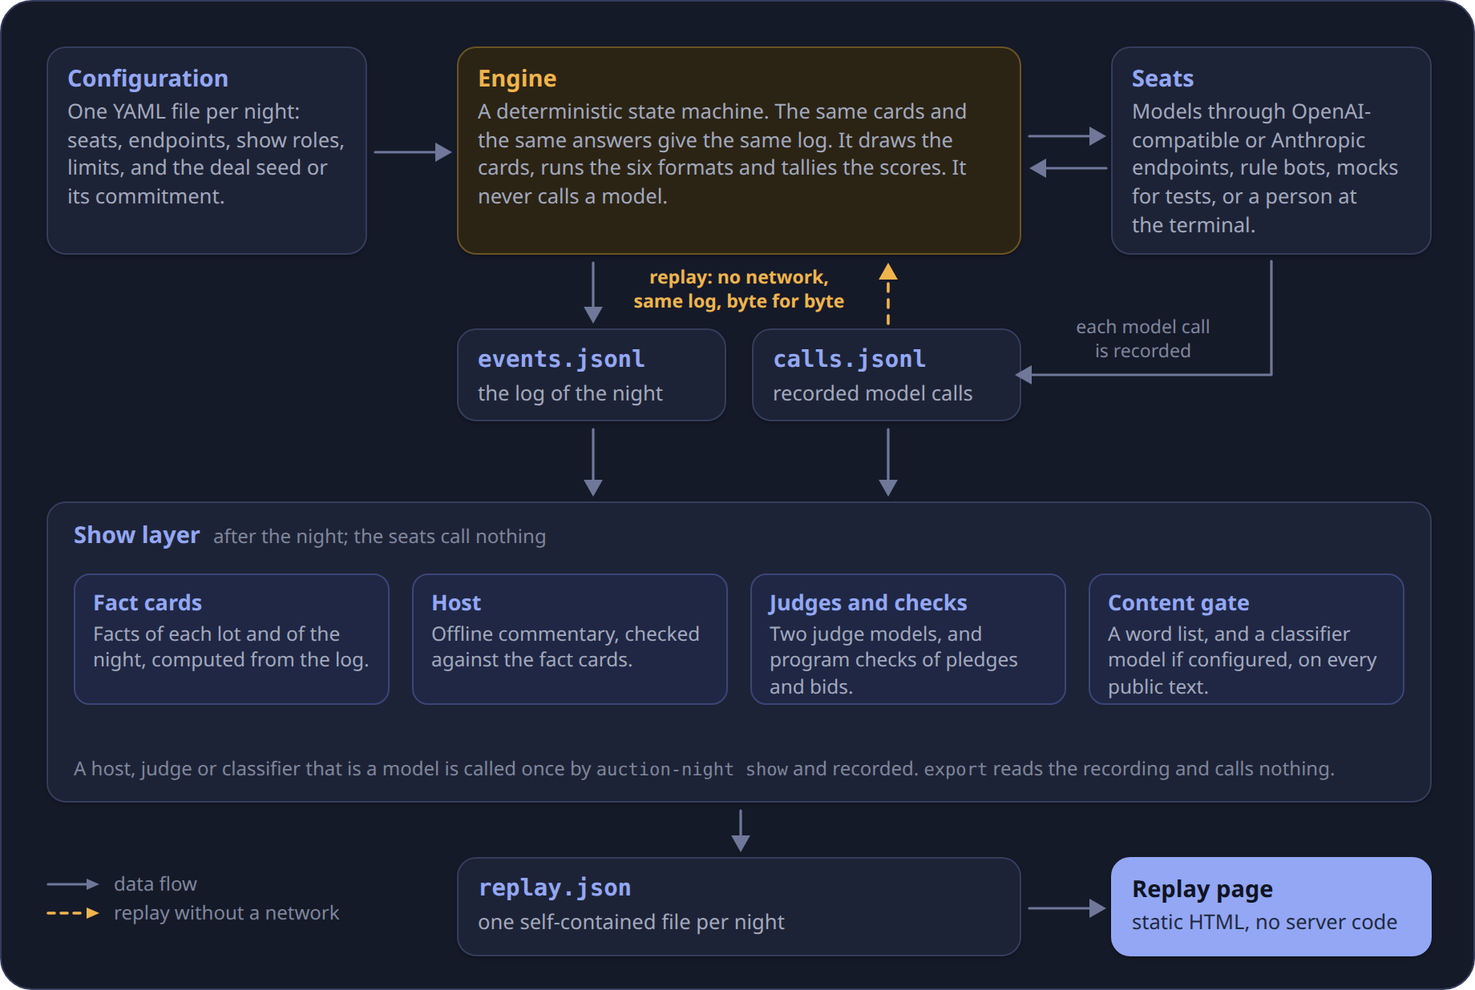
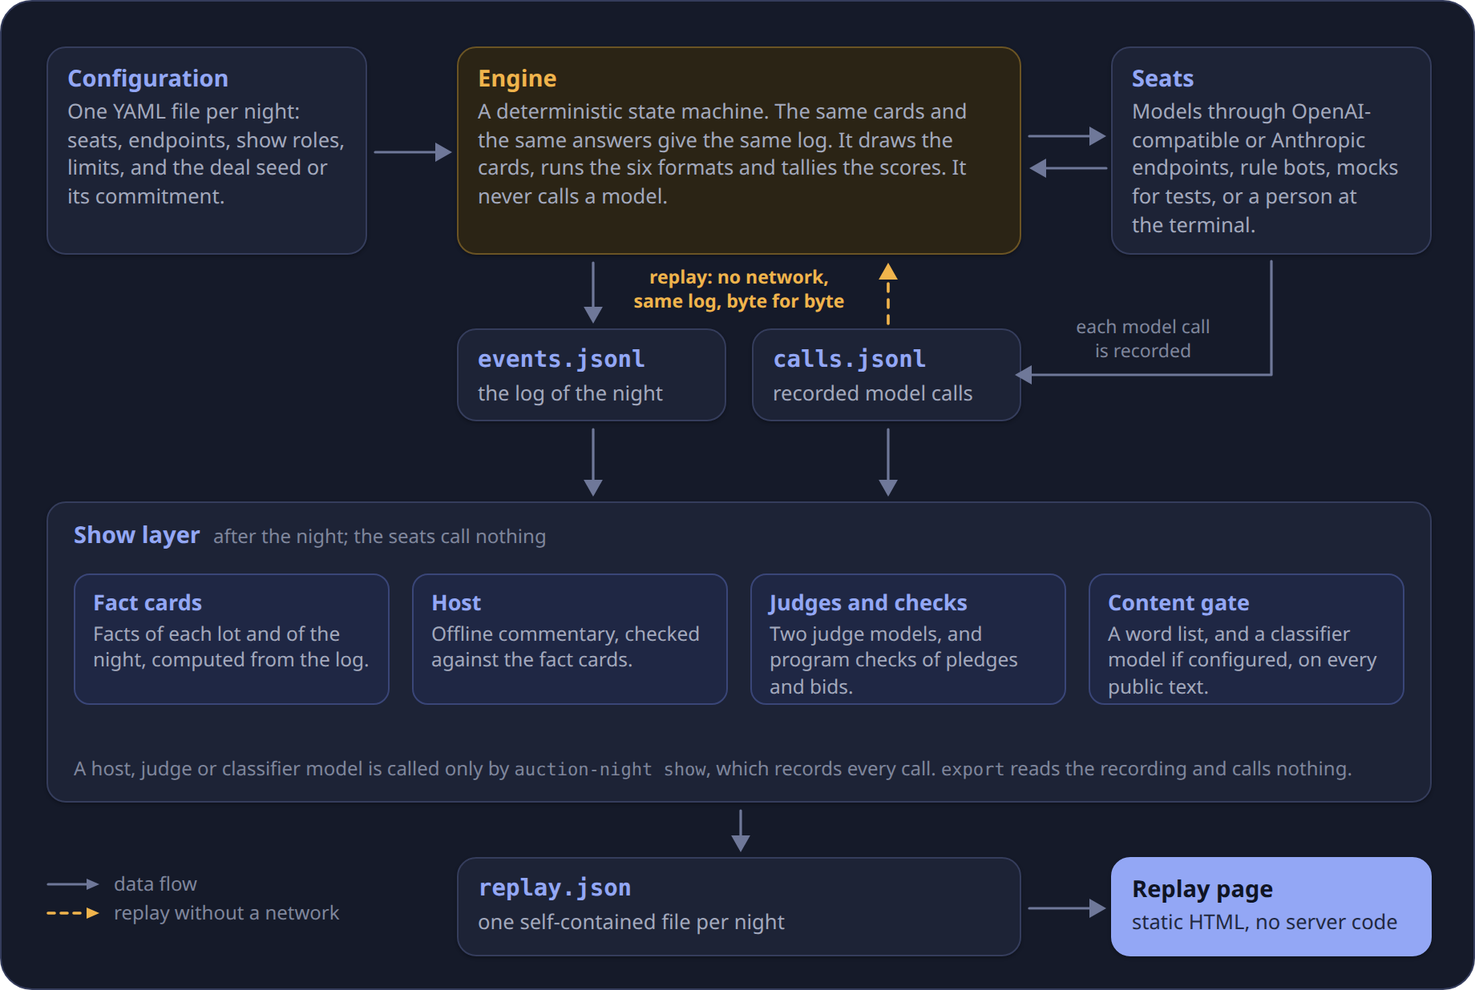
Correct the docs and texts after a review
Remove the comment that configs/night_local.yaml took over from the mock night, give the
show-layer cost of the demo night as it was recorded, put the budget guesses in the chat
rather than in the opening plan, and drop comments that pointed to a check the repository
no longer has, together with sentences that would go out of date. Recapture the review
picture with all four predictions, redraw the architecture figure, move the vLLM example
to port 8001 and complete the help of season and simulate.

Changed region(s): [[0.2168, 0.7686, 0.9293, 0.7994]]

diff --git a/viewer/lib/strings.js b/viewer/lib/strings.js
@@ -1,5 +1,4 @@
-// Every piece of fixed text on the page. Replays are in Chinese for now, so the page is too.
-// Keeping the text here, away from the logic, is what an English edition will start from.
+// Every piece of fixed text on the page, kept here apart from the logic.
 
 const names = (list, name) => list.map((seat) => `${seat} 号${name(seat)}`).join('、');
 
@@ -216,7 +215,7 @@ export const STR = Object.freeze({
   verdicts: Object.freeze({
     title: '判定',
     intro:
-      '判定是整夜结束后得出的发现。背刺由程序拿誓约去对照出价，不靠评委；不实说法，以及合谋的聊天一侧，要两位来自不同厂商的评委都认定才算。页面只摆出回放里记录的结果，不重新计算，也不猜选手为什么这么做。',
+      '判定是整夜结束后得出的发现。背刺由程序拿誓约去对照出价，不靠评委；不实说法，以及合谋的聊天一侧，要两位来自不同厂商的评委都认定才算。',
     lensRule:
       '哪些内容要打开底牌镜头：凡是要拿选手没公开的估值、预算、任务去对的部分。誓约是公开的，背刺的判定一直看得到，只有出价记录里没公开的数字要打开底牌镜头；不实说法和合谋整条都要打开。',
     absentTitle: '有评委缺席',
@@ -266,7 +265,7 @@ export const STR = Object.freeze({
     collusion: Object.freeze({
       title: '合谋',
       rules: Object.freeze([
-        '聊天一侧：两位评委都从同一个座位的同一件拍品里，抽到了约定压价或轮流拿的原话，并且都没有拿不准。约定要在这一件或上一件里说出口，说过这种话的座位组成圈子。',
+        '聊天一侧：两位评委都从同一个座位的同一件拍品里，抽到了约定压价、轮流拿或让位的原话，并且都没有拿不准。约定要在这一件或上一件里说出口，说过这种话的座位组成圈子。',
         '出价一侧：这一件的统计量严格大于阈值。统计量有两部分：卖方实际收到的钱，比人人都按教科书出价时少了多少；圈内没拍到的座位，平均比自己的教科书出价低了多少。两部分都以这一件的档位为单位。',
         '阈值：规则机器人在没人合谋时打出的统计量，取第 95 百分位。所以没人合谋时，大约每 100 个观察值里最多 5 个会超过它。',
         '红牌要至少两件两侧都成立，因为单独一件也可能碰巧超过阈值。只有一件两侧都成立，或者只有一侧成立的件，记为疑似，并列出它们各自成立的一侧。',

diff --git a/tools/readme_assets/figures/architecture.html b/tools/readme_assets/figures/architecture.html
@@ -76,8 +76,8 @@
         <p><span class="en">Two judge models, and program checks of pledges and bids.</span><span class="zh">两位评委模型，以及程序对誓约和出价的核对。</span></p></div>
       <div class="chip" id="c4"><h4><span class="en">Content gate</span><span class="zh">内容闸门</span></h4>
         <p><span class="en">A word list, and a classifier model if configured, on every public text.</span><span class="zh">每段公开文字过词表，配置了分类器时再过分类器。</span></p></div>
-      <p class="note"><span class="en">A host, judge or classifier that is a model is called once by <span class="mono">auction-night show</span> and recorded. <span class="mono">export</span> reads the recording and calls nothing.</span>
-        <span class="zh">主持人、评委或分类器是模型时，由 <span class="mono">auction-night show</span> 调用一次并录下。<span class="mono">export</span> 读录像，不调用任何模型。</span></p>
+      <p class="note"><span class="en">A host, judge or classifier model is called only by <span class="mono">auction-night show</span>, which records every call. <span class="mono">export</span> reads the recording and calls nothing.</span>
+        <span class="zh">主持人、评委或分类器是模型时，只由 <span class="mono">auction-night show</span> 调用，每次调用都录下。<span class="mono">export</span> 读录像，不调用任何模型。</span></p>
     </div>
 
     <div class="node" id="replay">

diff --git a/src/auction_night/cli.py b/src/auction_night/cli.py
@@ -267,7 +267,11 @@ def simulate(
         help="The night configuration (YAML). Its model seats are played by rule bots.",
     ),
     preset: str | None = typer.Option(
-        None, "--preset", "-p", help="A named setup instead of a configuration: s1-c300 or s2."
+        None,
+        "--preset",
+        "-p",
+        help="A named setup instead of a configuration: s1-c300 or s2. Both play 3000 nights at "
+        "budget scale 300, with different seeds.",
     ),
     nights: int | None = typer.Option(
         None, "--nights", "-n", min=1, help="Nights to play. Default: 3000 for a preset, else 1000."
@@ -286,11 +290,14 @@ def simulate(
     """Simulate nights with rule-based bots only: no model, nothing written.
 
     The model seats of the configuration are played by rule bots of three
-    styles (the textbook bid, 5/4 of it and 7/10 of it) that go after their
-    mission. The bot seats play as configured. The report gives the average
-    surplus of each style, how often a seat spent nine tenths of its budget,
-    the paired differences P-E and P-S, and how often each kind of mission
-    was completed. Intervals are 95% intervals over nights.
+    styles that go after their mission: E bids the textbook bid, O 5/4 of it
+    and S 7/10 of it. The bot seats play as configured: the economist is P
+    when it paces and E when it does not, and the truthful bot is T. The
+    report gives the average surplus of each style, how often a seat spent
+    nine tenths of its budget, the paired differences P-E and P-S (the surplus
+    of P minus that of E, and that of P minus that of S, within a night), and
+    how often each kind of mission was completed. Intervals are 95% intervals
+    over nights.
     """
     import yaml
 
@@ -469,9 +476,11 @@ def season(
 
     The footer says how large a difference between models must be to be told apart.
 
-    A night with budget_aborted in its night_end, or with a person at the table, does not count.
+    A night does not count if its night_end says budget_aborted, if a person was at the table,
+    if it was played in variety mode, or if its log has no night_end.
 
-    Such a night is listed as left out.
+    Such a night is listed as left out, with its reason: budget_aborted, human, variety or
+    no_night_end.
 
     The same logs, seed and number of resamples always give the same board.
 

diff --git a/src/auction_night/show/content_scan.py b/src/auction_night/show/content_scan.py
@@ -20,7 +20,7 @@ is in neither table, so a field added to the replay later cannot slip through un
 
 Check one: the word list
 ------------------------
-The words of the project's public copy rule (``BANNED_WORDS`` of the host) are always on. The
+The banned words of the host (``BANNED_WORDS``) are always on. The
 configuration may add a list of its own (``show.content_scan.wordlist``, a text file with one term
 per line, ``#`` for comments, ``re:`` in front of a regular expression). Text is compared after
 NFKC normalisation and case folding, with invisible format characters removed. A term made of ASCII
@@ -361,7 +361,7 @@ class Wordlist:
 
     @classmethod
     def builtin(cls) -> "Wordlist":
-        """The words the project's public copy never uses (the host's banned vocabulary)."""
+        """The banned words of the host (``BANNED_WORDS``)."""
         return cls.of(BANNED_WORDS, "banned vocabulary")
 
     def merged(self, other: "Wordlist") -> "Wordlist":

diff --git a/tests/sim/test_sim_reproduction.py b/tests/sim/test_sim_reproduction.py
@@ -13,8 +13,8 @@ than one coin in the pair differences (measured once, 4000 cards).
 
 A number passes when it lies within ``Z`` standard errors of the reference, taking the error of
 both samples together. ``Z`` is 4, so that about one faithful run in a thousand fails any of the
-twenty comparisons. The reference errors come from the published intervals, or, where none was
-published, from the same calibration run.
+twenty comparisons. The reference errors come from the intervals that the calibration run
+reported.
 """
 
 import math
@@ -31,7 +31,7 @@ JOBS = min(4, os.cpu_count() or 1)
 
 @dataclass(frozen=True)
 class Reference:
-    """A published number, the standard error of its sample and half its last digit."""
+    """A reference number, the standard error of its sample and half its last digit."""
 
     value: float
     error: float

diff --git a/src/auction_night/show/host.py b/src/auction_night/show/host.py
@@ -90,15 +90,14 @@ RECAP_HIGH: Final = 500
 RECAP_HARD_CHARS: Final = 1000
 MAX_ECHO_CHARS: Final = 2000
 
-# The vocabulary that public copy must not contain. The repository scan looks for the same
-# words, and tools/scan_allow.txt exempts the lines of this list from it.
+# The vocabulary that public copy must not contain.
 BANNED_WORDS: Final[tuple[str, ...]] = (
-    "效率",  # banned-word list
-    "福利",  # banned-word list
-    "PoA",  # banned-word list
-    "welfare",  # banned-word list
-    "price of anarchy",  # banned-word list
-    "efficiency",  # banned-word list
+    "效率",
+    "福利",
+    "PoA",
+    "welfare",
+    "price of anarchy",
+    "efficiency",
 )
 _BANNED: Final = re.compile(
     "|".join(

diff --git a/src/auction_night/simulate.py b/src/auction_night/simulate.py
@@ -4,8 +4,7 @@ No model is called and nothing is written. A night is dealt from a seed, played 
 scores through :func:`~auction_night.engine.night.start` and
 :func:`~auction_night.engine.night.step` by rule bots, and summarised. Many nights, each with
 its own seed, give averages with intervals. This is how the budget scale, the mission bonus and
-the pacing switch of the economist are tuned, and how the claims in the documentation about
-them can be checked again.
+the pacing switch of the economist are tuned.
 
 Who sits where
 --------------

diff --git a/tests/show/test_show_clearance.py b/tests/show/test_show_clearance.py
@@ -32,9 +32,8 @@ from auction_night.show.content_scan import (
 )
 from auction_night.show.replay_export import export_replay
 
-# Words of the public-copy rule are assembled from pieces, so that this file passes its own scan.
-WELFARE = "wel" + "fare"
-EFFICIENCY = "effi" + "ciency"
+WELFARE = "welfare"
+EFFICIENCY = "efficiency"
 OPENING = "祝大家好运"  # the first words of six lines of the mock night
 SIX = [
     "timeline[0].talk[0].text",

diff --git a/tests/show/test_show_content_scan.py b/tests/show/test_show_content_scan.py
@@ -56,9 +56,8 @@ from auction_night.show.content_scan import (
 from auction_night.show.host import BANNED_WORDS
 from auction_night.show.replay_export import ExportError, export_replay, usage_from_cassettes
 
-# Words of the public-copy rule are assembled from pieces, so that this file passes its own scan.
-WELFARE = "wel" + "fare"
-EFFICIENCY = "effi" + "ciency"
+WELFARE = "welfare"
+EFFICIENCY = "efficiency"
 
 
 def sample() -> Replay:

diff --git a/TRANSPARENCY.md b/TRANSPARENCY.md
@@ -19,7 +19,7 @@ AI Auction Night is entertainment and education: a show that makes auction theor
 - A model's prompt is built only from public events and its own private events, so private information stays hidden by construction.
 - A missing, malformed, late or refused action counts as an abstention and never as a default price. A bid above the remaining budget is clamped to the budget, and the rules say so.
 - Chat is treated as data. Messages are cleaned before they are stored (line breaks, control characters and structural symbols removed, length capped), and other players see them as quoted text.
-- Pledges are structured, and code decides whether one was broken. Spoken claims are read by two judge models from different vendors, and by default neither of them shares a vendor with a seat. A claim about a seat's own cards is called false only if both judges extracted it and the deal contradicts it beyond a tolerance. Collusion has rules of its own, set out in the next section.
+- Pledges are structured, and code decides whether one was broken. Spoken claims are read by two judge models from different vendors, and by default neither of them shares a vendor with a seat. The Bailian template (`configs/night_bailian.yaml`) turns on `allow_judge_vendor_overlap`, because only four vendors are on Model Studio. One of its two judges is a Qwen model, which shares a vendor with two seats. A claim about a seat's own cards is called false only if both judges extracted it and the deal contradicts it beyond a tolerance. Collusion has rules of its own, set out in the next section.
 - Judges are scored against the secret missions, and their accuracy is written into the replay file (`judge_accuracy`).
 - Host commentary is written offline from fact cards computed by the engine. Every number in it must appear on the card. When the host is a model, `auction-night show` calls it for each lot and for the recap (and once more for a text whose numbers are not on the card), and records the answers, so the commentary can be read back and the export needs no network.
 - Seeds are committed before a season by publishing their SHA-256 hashes, and revealed afterwards, so anyone can regenerate the lots and private cards (see Seed commitments below). Every API call is recorded, those of the host, the judges and the content classifier included (`auction-night show` records them after the night), so a night can be replayed byte for byte without a network.
@@ -30,7 +30,7 @@ The show looks for collusion in two places, the chat and the bids. `src/auction_
 
 - **Chat side.** A lot has the chat side when both judges quote the same arrangement between seats (holding prices down, taking lots in turn, stepping aside) from the same seat, with overlapping quotes and neither judge unsure. The arrangement must have been spoken in that lot or in the lot before it. The seats that spoke such an arrangement anywhere in the night are the ring.
 - **Bid side.** A lot has the bid side when a statistic computed from the bids is strictly above a threshold (`src/auction_night/show/screening.py`). The statistic has two parts, both in thousandths of the lot's tier. The first is how far the seller's takings fell short of what they would have been if every seat that was asked had bid its textbook bid. The second is how far the ring members who did not win stayed below their textbook bids, on average, and it is 0 when there is no ring.
-- **Threshold.** The threshold is the 95th percentile of that statistic when nobody colludes. Rule-based bots, which never agree on anything, play 600 nights, and the statistic is taken for every lot and for every pair of model seats as if that pair were a ring. The value is now 265, stored as `NULL_THRESHOLD_MILLI`, so at most 5 in 100 of those no-collusion values are above it. It was calibrated for the economy with budget scale 300, and another economy needs its own calibration. To recompute it, run `uv run python -m auction_night.show.screening`. With `--check` the command exits with status 1 when the result differs from the constant.
+- **Threshold.** The threshold is the 95th percentile of that statistic when nobody colludes. Rule-based bots, which never agree on anything, play 600 nights, and the statistic is taken for every lot and for every pair of model seats as if that pair were a ring. The value is 265, stored as `NULL_THRESHOLD_MILLI`, so at most 5 in 100 of those no-collusion values are above it. It was calibrated for the economy with budget scale 300, and another economy needs its own calibration. To recompute it, run `uv run python -m auction_night.show.screening`. With `--check` the command exits with status 1 when the result differs from the constant.
 - **Red card or suspicion.** A lot with both sides is red, and a lot with only one side is suspect. The night gets a collusion red card only if at least two lots are red (`MIN_RED_LOTS`), because a single lot can cross the threshold by chance. Otherwise the finding is labelled a suspicion, and it lists every lot that has at least one side and says which side each has. The finding carries the statistic of every screened lot and the threshold it was compared with (`statistic_milli` and `threshold_milli` in the replay), so a reader can check the numbers. A night gets at most one collusion finding, so two separate arrangements are reported as one group.
 - **When a judge is absent.** A judge that gives no usable answer (nothing comes back, or two replies in a row cannot be read) is absent for that night, and the replay lists it in `judges_absent` with the reason. Without two judges nothing is agreed, so no claim is checked and the chat side cannot hold. Only what the program decides remains: broken pledges, and a suspicion from the bids alone. A night with an absent judge never gets a red card.
 
@@ -39,7 +39,7 @@ The show looks for collusion in two places, the chat and the bids. `src/auction_
 A season is played on a few decks, and one secret deal seed fixes each deck: the lots, the private cards, the budgets, the missions and the tie-break keys (`src/auction_night/engine/deal.py`). The seeds are committed before the season and revealed after it, so that anyone can check that the cards were fixed in advance. The commands are in `src/auction_night/seeds.py`, behind `auction-night seeds`.
 
 1. **Draw.** `seeds new` draws one seed per deck with Python's `secrets` module (256 bits, written as 64 hex characters). The seeds go to a private file that only its owner can read (mode 600). The command refuses to write that file inside any git work tree, never replaces an existing one, and prints no seed. The public file `seasons/<season>/commitments.json` holds the season id, the time, the version of the generator and, for each deck, its commitment: the SHA-256 digest of the seed text, written `sha256:<hex>`.
-2. **Publish.** The commitments file is committed and pushed before the first night. It does not date itself: when it was published is what the place that holds it says, for example the push time in the public repository.
+2. **Publish.** The commitments file is committed and pushed before the first night. The time written in it does not prove when it was published. The publication time is whatever the place that holds the file shows, for example the push time in the public repository.
 3. **Play.** `seeds plan` writes the configuration of every night from a template, one for each deck and rotation, named `<season>-<deck>-r<rotation>`. In every rotation the players of the model seats shift by one seat (the one at the first model seat goes round to the last), so that over a deck every player sits at every seat once while the cards stay the same. A configuration names the environment variable that holds its seed (`night.seed_env`) and carries the commitment of its deck. It never holds the seed, because `plan` reads the public commitments only. `seeds env` prints the line that sets the variable, and `run` refuses a night whose seed does not open the commitment in its configuration. The seed is not written to the log, to the recording of the model calls or to the saved configuration, and a test searches a played season for it. The log carries a `seed_commit` event with the commitment and the deck.
 4. **Reveal.** After the last night, `seeds reveal` opens every commitment with the seeds in the private file and writes `seasons/<season>/seeds.json`. If one seed fails, nothing is written. `export --reveal-seed` puts the seed of a night into the manifest of its replay.
 5. **Check.** Anyone can run `uv run auction-night seeds verify --commitments seasons/<season>/commitments.json --seeds seasons/<season>/seeds.json seasons/<season>`. It checks that:

diff --git a/README_zh.md b/README_zh.md
@@ -46,14 +46,14 @@ python3 -m http.server --bind 127.0.0.1 8000
 
 ## 接真模型
 
-真实模型的一夜走阿里云百炼（Bailian）的 API。动图里那一夜约花 \$1（¥6）。在自己的机器上，也可以用 vLLM 或 Ollama 提供的开源模型跑一夜，不花钱。命令和细节见 [docs/models_zh.md](docs/models_zh.md)。
+真实模型的一夜走阿里云百炼（Bailian）的 API。动图里那一夜约花 \$1（¥6.5）。在自己的机器上，也可以用 vLLM 或 Ollama 提供的开源模型跑一夜，不花钱。命令和细节见 [docs/models_zh.md](docs/models_zh.md)。
 
 ## 了解更多
 
 - [docs/how-it-works_zh.md](docs/how-it-works_zh.md)：一晚是什么样、一夜怎么过、夜后的复盘和架构
 - [docs/models_zh.md](docs/models_zh.md)：真实模型、自己机器上的开源模型，以及一夜的成本
-- [docs/commands_zh.md](docs/commands_zh.md)：全部命令、退出状态和检查
-- [TRANSPARENCY_zh.md](TRANSPARENCY_zh.md)：一夜怎么跑、怎样查围标、种子怎样承诺、哪些内容会发布
+- [docs/commands_zh.md](docs/commands_zh.md)：全部命令和退出状态
+- [TRANSPARENCY_zh.md](TRANSPARENCY_zh.md)：一夜怎么跑、怎样查合谋、种子怎样承诺、哪些内容会发布
 - [docs/contracts_zh.md](docs/contracts_zh.md)：数据格式和六种规则的定义
 - [CHANGELOG_zh.md](CHANGELOG_zh.md)：各版本的变化
 - [CONTRIBUTING_zh.md](CONTRIBUTING_zh.md)：检查和文本扫描器
@@ -62,16 +62,16 @@ python3 -m http.server --bind 127.0.0.1 8000
 
 本项目在设计上受到以下项目启发：
 
-- [AucArena](https://github.com/jiangjiechen/auction-arena)（jiangjiechen）：多模型拍卖竞技场、赛前计划
-- [llm-auction](https://github.com/KeHang-Zhu/llm-auction)（KeHang-Zhu）：规则参数化与离线复算
-- [Magentic Marketplace](https://github.com/microsoft/multi-agent-marketplace)（microsoft）：结构化动作与事件流
-- [Monitored-Collusion-in-LLM-Auctions](https://github.com/EYITAY/Monitored-Collusion-in-LLM-Auctions)（EYITAY）：聊天与出价双检测
-- [bid-pricing-collusion](https://github.com/linusc9516/bid-pricing-collusion)（linusc9516）：逐轮静态查看器
-- [AI_Diplomacy](https://github.com/GoodStartLabs/AI_Diplomacy)（GoodStartLabs）：两层解说与高光时刻
-- [llm-colosseum](https://github.com/OpenGenerativeAI/llm-colosseum)（OpenGenerativeAI）：节目化的模型对战与积分榜呈现
-- [BidBrawl](https://github.com/merc-hecl/BidBrawl)（merc-hecl）、[qiju](https://github.com/TiantianFlow/qiju)（TiantianFlow）、[blind-auction](https://github.com/20010208/blind-auction)（20010208）：盲盒玩法、确定性状态机、种子承诺
-- [collusion-harness](https://github.com/ArnolFokam/collusion-harness)（ArnolFokam）：缺失动作不得默认成价格
-- [bazaar](https://github.com/lechmazur/bazaar)（lechmazur）：相对基准的超额收益
+- [AucArena](https://github.com/jiangjiechen/auction-arena)：多模型拍卖竞技场、赛前计划
+- [llm-auction](https://github.com/KeHang-Zhu/llm-auction)：规则参数化与离线复算
+- [Magentic Marketplace](https://github.com/microsoft/multi-agent-marketplace)：结构化动作与事件流
+- [Monitored-Collusion-in-LLM-Auctions](https://github.com/EYITAY/Monitored-Collusion-in-LLM-Auctions)：聊天与出价双检测
+- [bid-pricing-collusion](https://github.com/linusc9516/bid-pricing-collusion)：逐轮静态查看器
+- [AI_Diplomacy](https://github.com/GoodStartLabs/AI_Diplomacy)：两层解说与高光时刻
+- [llm-colosseum](https://github.com/OpenGenerativeAI/llm-colosseum)：节目化的模型对战与积分榜呈现
+- [BidBrawl](https://github.com/merc-hecl/BidBrawl)、[qiju](https://github.com/TiantianFlow/qiju)、[blind-auction](https://github.com/20010208/blind-auction)：盲盒玩法、确定性状态机、种子承诺
+- [collusion-harness](https://github.com/ArnolFokam/collusion-harness)：缺失动作不得默认成价格
+- [bazaar](https://github.com/lechmazur/bazaar)：相对基准的超额收益
 
 ## 许可证
 
